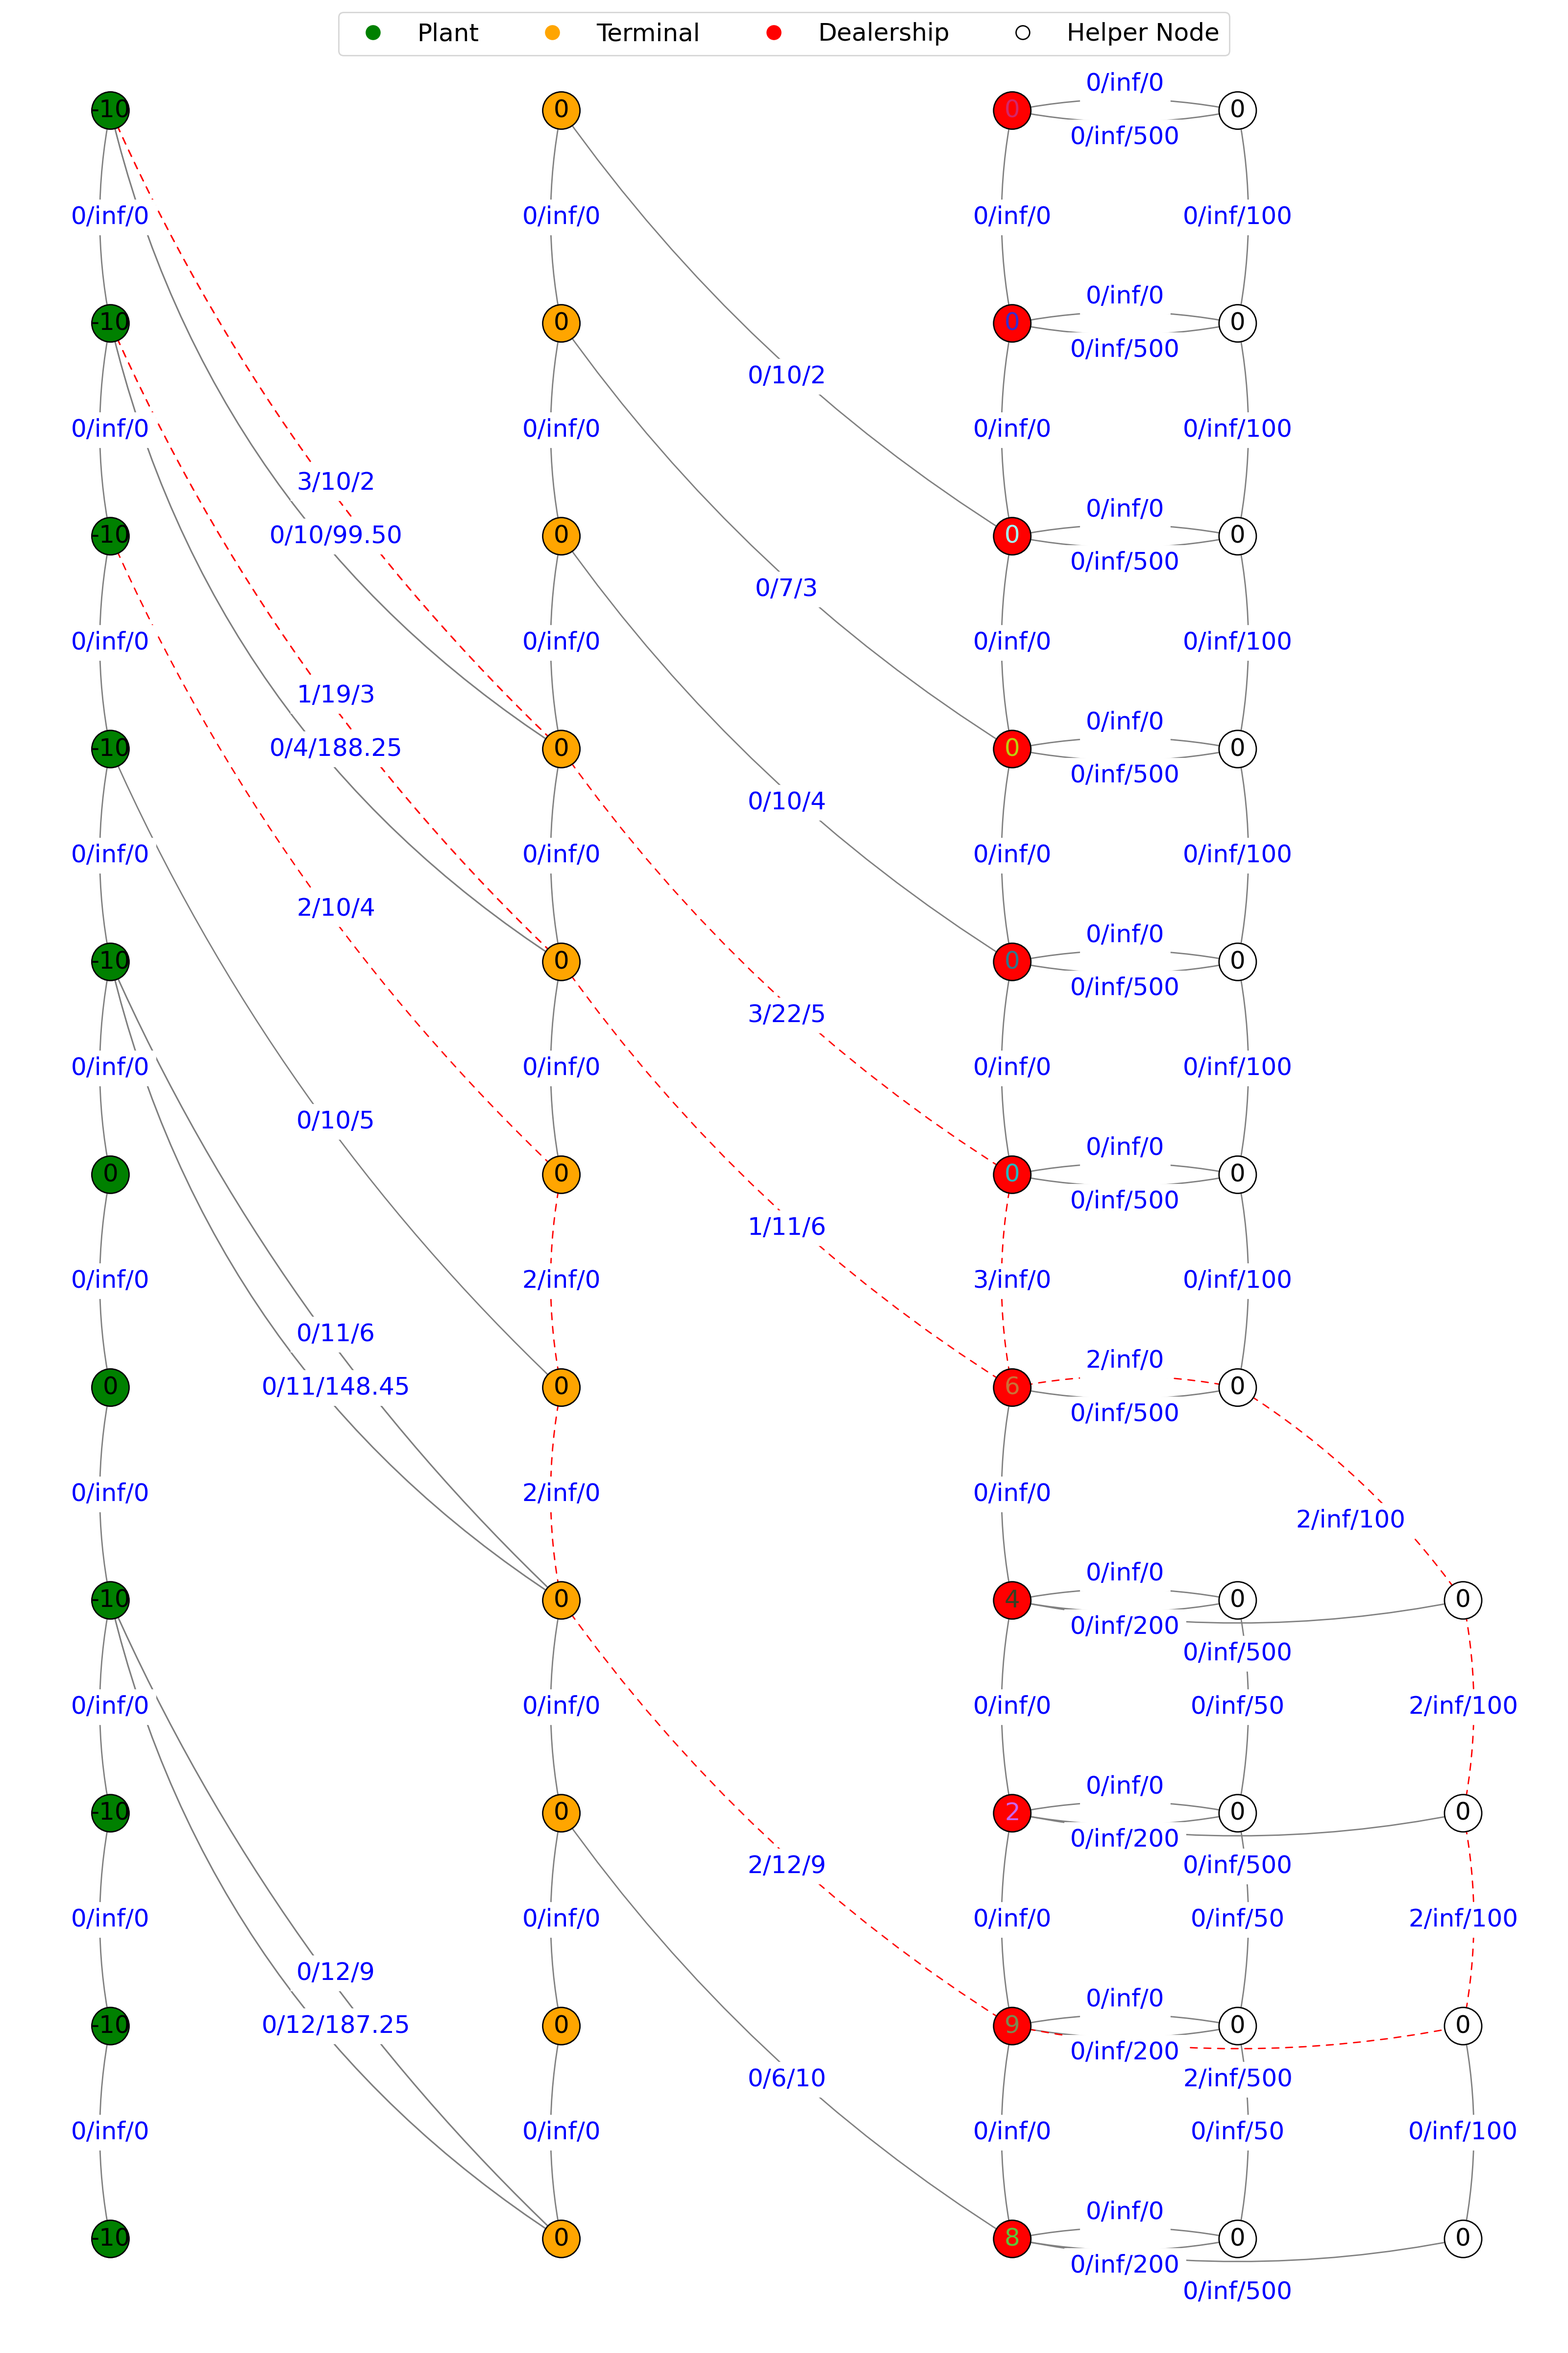
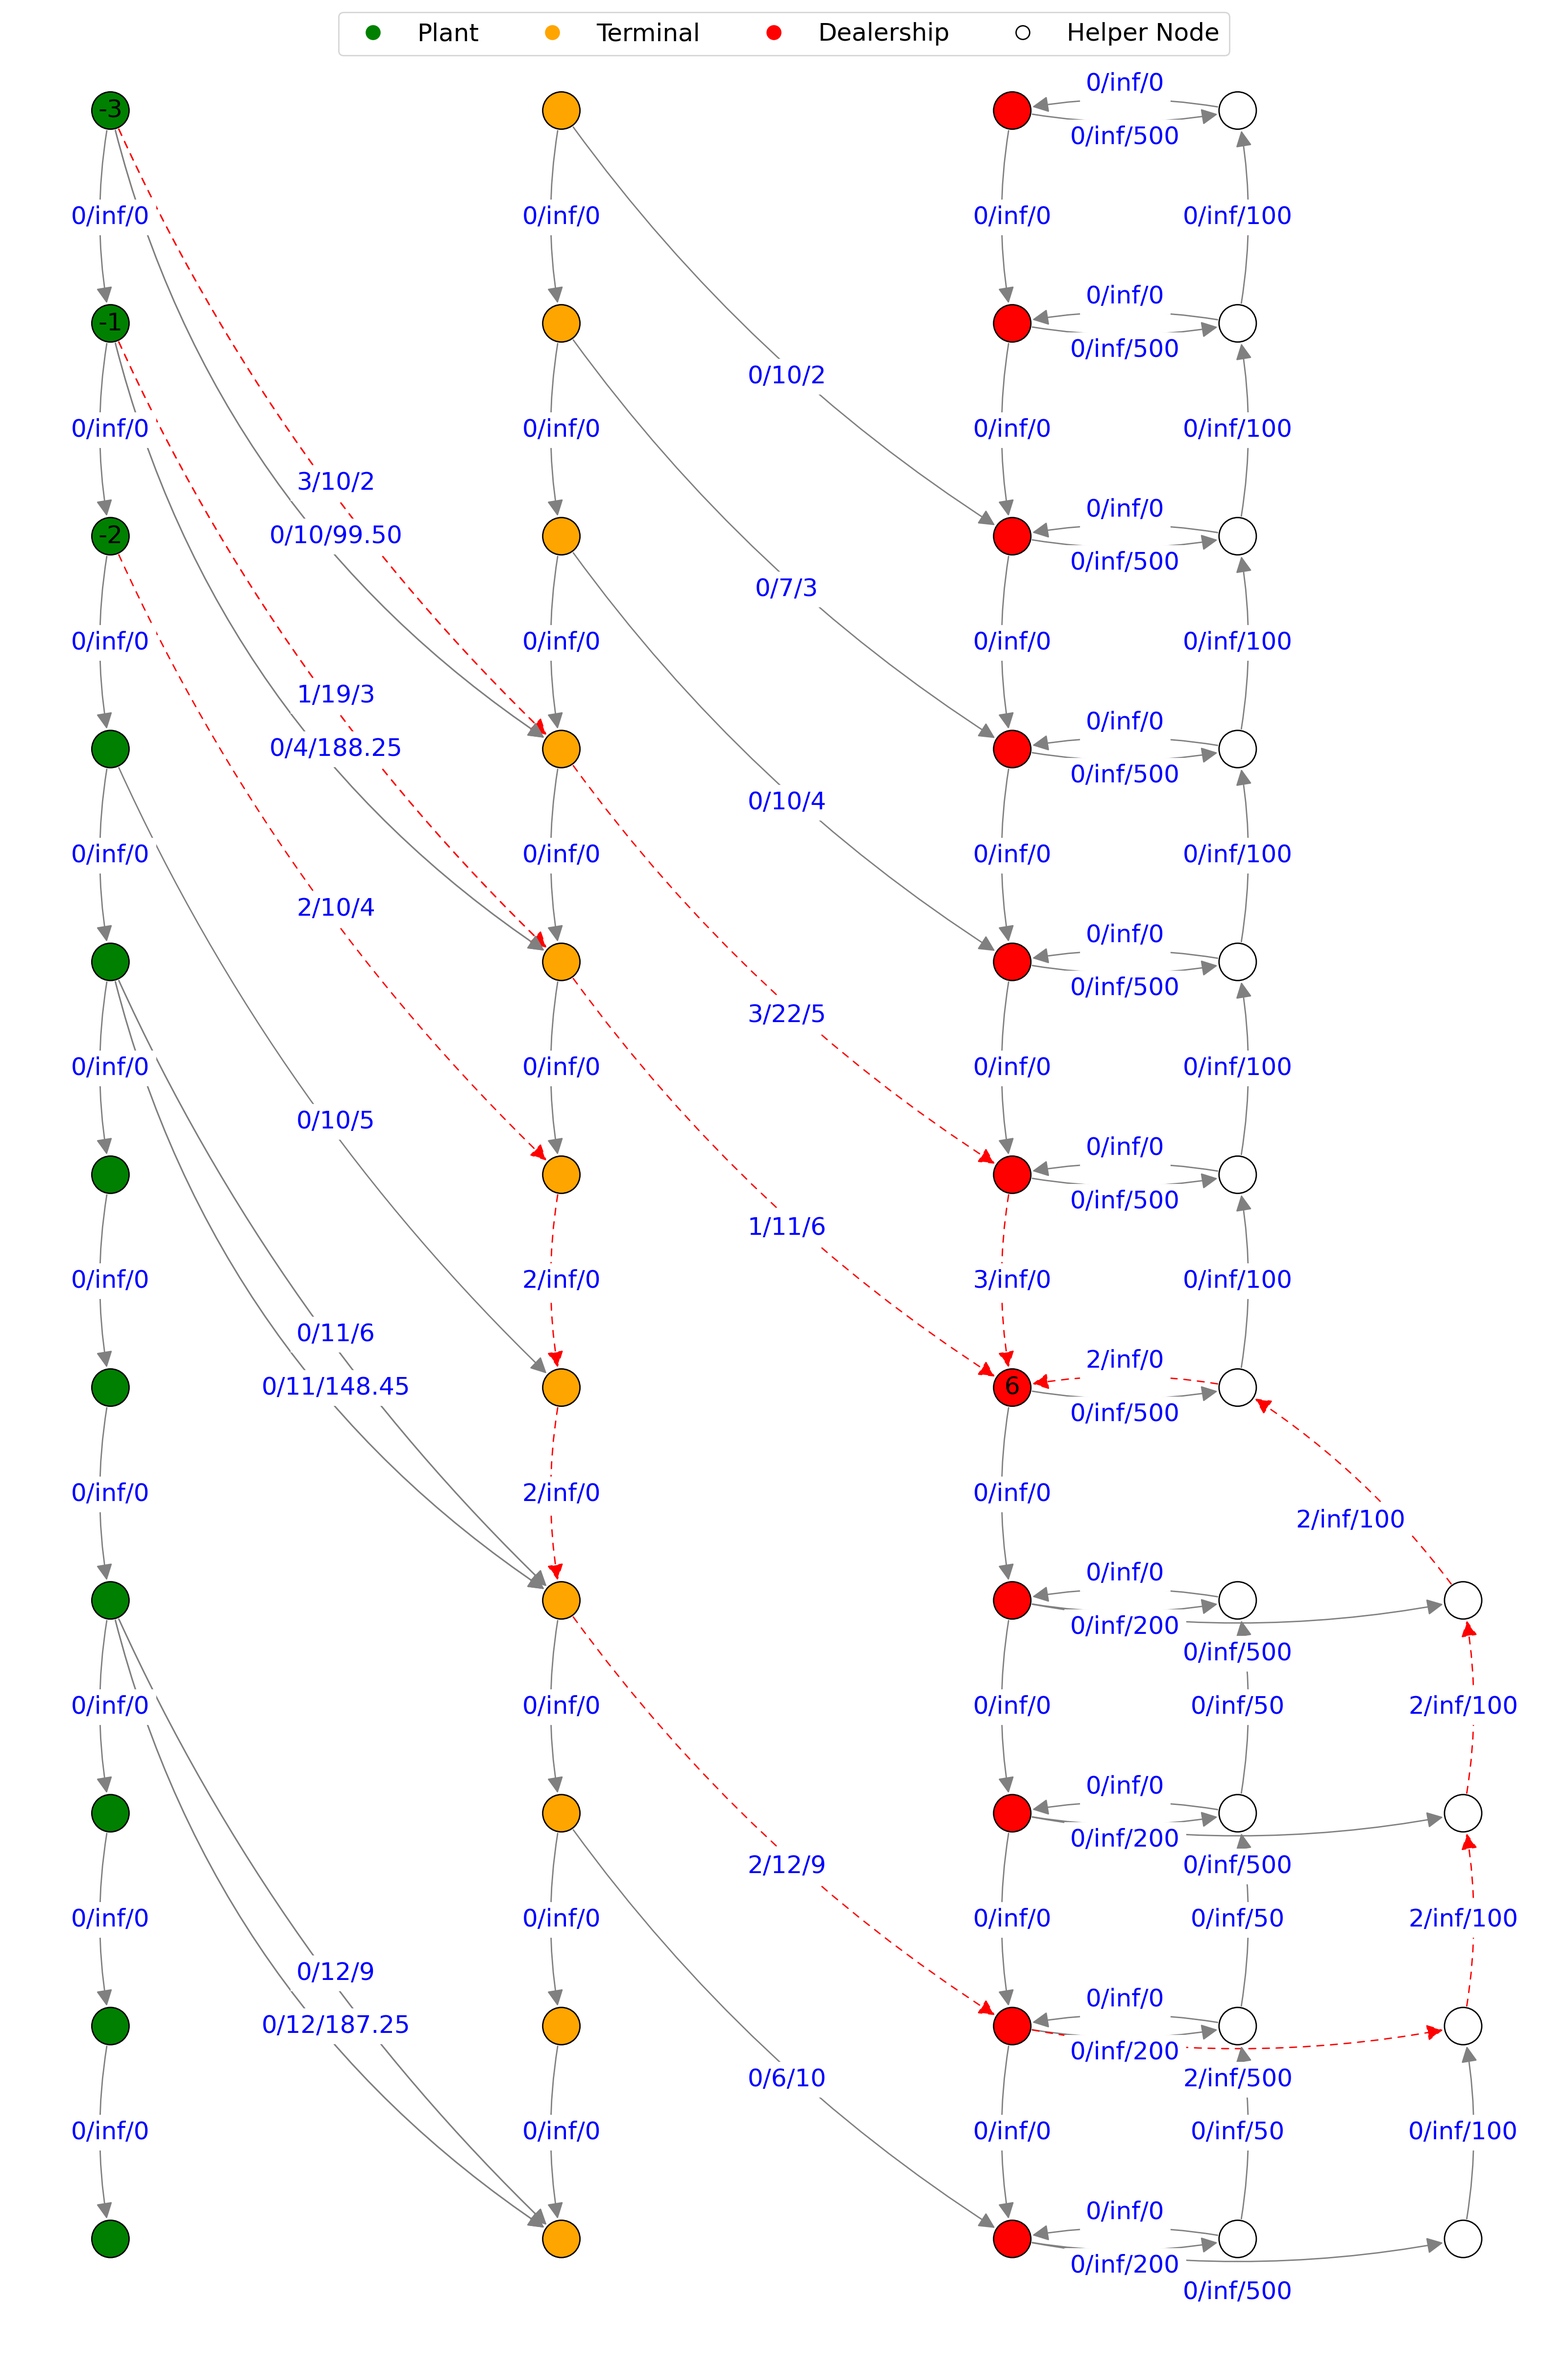
Improve flow visualizations even further by only showing commodity demands

Changed region(s): [[0.625, 0.5625, 0.6562, 0.5938]]

diff --git a/src/maheu_group_project/heuristics/flow/visualize.py b/src/maheu_group_project/heuristics/flow/visualize.py
@@ -25,7 +25,8 @@ FONTSIZE = 18
 def visualize_flow_network(flow_network: MultiDiGraph, locations: list[Location],
                            commodity_groups: set[str] | None = None,
                            flow: dict[NodeIdentifier, dict[NodeIdentifier, dict[int, int]]] = None,
-                           only_show_flow_nodes: str | None = None):
+                           current_commodity: str | None = None,
+                           only_show_flow_nodes: bool = False):
     """
     Visualizes the flow network using matplotlib and networkx.
 
@@ -34,7 +35,7 @@ def visualize_flow_network(flow_network: MultiDiGraph, locations: list[Location]
         locations (list[Location]): List of all locations in the network.
         commodity_groups (set[str], optional): Set of commodity groups to consider for node annotations.
         flow (dict[NodeIdentifier, dict[NodeIdentifier, dict[int, int]]], optional): Flow data for each edge.
-        only_show_flow_nodes (str, optional):
+        only_show_flow_nodes (bool): If True, only nodes involved in the flow will be shown.
     """
     # Ensure correct type for flow_network
     flow_network: MultiDiGraph[NodeIdentifier] = flow_network
@@ -63,7 +64,7 @@ def visualize_flow_network(flow_network: MultiDiGraph, locations: list[Location]
                 filtered_flow[src] = filtered_targets
 
     # If a flow is provided and only_show_flow_nodes is true, we want filter the graph to only contain the nodes involved in the flow
-    if flow_data_provided and (only_show_flow_nodes is not None):
+    if flow_data_provided and only_show_flow_nodes:
         involved_nodes = set(filtered_flow.keys())
         for targets in filtered_flow.values():
             involved_nodes.update(targets.keys())
@@ -90,7 +91,7 @@ def visualize_flow_network(flow_network: MultiDiGraph, locations: list[Location]
         # Adjust the plot size for report
         plot_size = (16, 24)
     dpi = 150
-    if only_show_flow_nodes is not None:
+    if only_show_flow_nodes:
         # Adjust the plot size
         plot_size = (16, 16)
         dpi = 150
@@ -121,35 +122,36 @@ def visualize_flow_network(flow_network: MultiDiGraph, locations: list[Location]
 
     # Annotate nodes
     for node, (x, y) in pos.items():
-        if only_show_flow_nodes is None:
+        if current_commodity is None:
             # Annotate the dealership nodes with their commodity group demand in different colors
-            if node.type == NodeType.NORMAL and node.location.type == LocationType.DEALER:
-                commodity_group = dealership_to_commodity_group(node)
-                demand = flow_network.nodes[node].get(commodity_group, 0)
-                color = string_to_color(commodity_group)
-                ax.text(x, y, str(demand), fontsize=FONTSIZE, color=color, ha='center', va='center')
-
-            # Annotate nodes with the summarized demands
-            else:
-                demand = get_demand_sum(flow_network, commodity_groups, node)
-                ax.text(x, y, str(demand), fontsize=FONTSIZE, color='black', ha='center', va='center')
-
+            continue
+            # if node.type == NodeType.NORMAL and node.location.type == LocationType.DEALER:
+            #     commodity_group = dealership_to_commodity_group(node)
+            #     demand = flow_network.nodes[node].get(commodity_group, 0)
+            #     color = string_to_color(commodity_group)
+            #     ax.text(x, y, str(demand), fontsize=FONTSIZE, color=color, ha='center', va='center')
+            #
+            # # Annotate nodes with the summarized demands
+            # else:
+            #     demand = get_demand_sum(flow_network, commodity_groups, node)
+            #     ax.text(x, y, str(demand), fontsize=FONTSIZE, color='black', ha='center', va='center')
 
         else:
-            # If we only show flow nodes, we only annotate with the current commodity, which is provided in
-            # only_show_flow_nodes
+            # If a current commodity is specified, we only annotate nodes related to that commodity
             if node.type == NodeType.NORMAL and node.location.type == LocationType.DEALER:
                 commodity_group = dealership_to_commodity_group(node)
-                if commodity_group == only_show_flow_nodes:
-                    demand = flow_network.nodes[node].get(only_show_flow_nodes, 0)
-                    color = string_to_color(only_show_flow_nodes)
-                    ax.text(x, y, str(demand), fontsize=FONTSIZE, color=color, ha='center', va='center')
+                if commodity_group == current_commodity:
+                    demand = flow_network.nodes[node].get(current_commodity, 0)
+                    if demand != 0:
+                        color = 'black'
+                        ax.text(x, y, str(demand), fontsize=FONTSIZE, color=color, ha='center', va='center')
 
             # Annotate nodes with their demans for the current commodity group
             else:
-                demand = flow_network.nodes[node].get(only_show_flow_nodes, 0)
-                color = string_to_color(only_show_flow_nodes)
-                ax.text(x, y, str(demand), fontsize=FONTSIZE, color=color, ha='center', va='center')
+                demand = flow_network.nodes[node].get(current_commodity, 0)
+                if demand != 0:
+                    color = 'black'
+                    ax.text(x, y, str(demand), fontsize=FONTSIZE, color=color, ha='center', va='center')
 
         # We annotate the date to the left of PLANT nodes
         if node.location.type == LocationType.PLANT:
